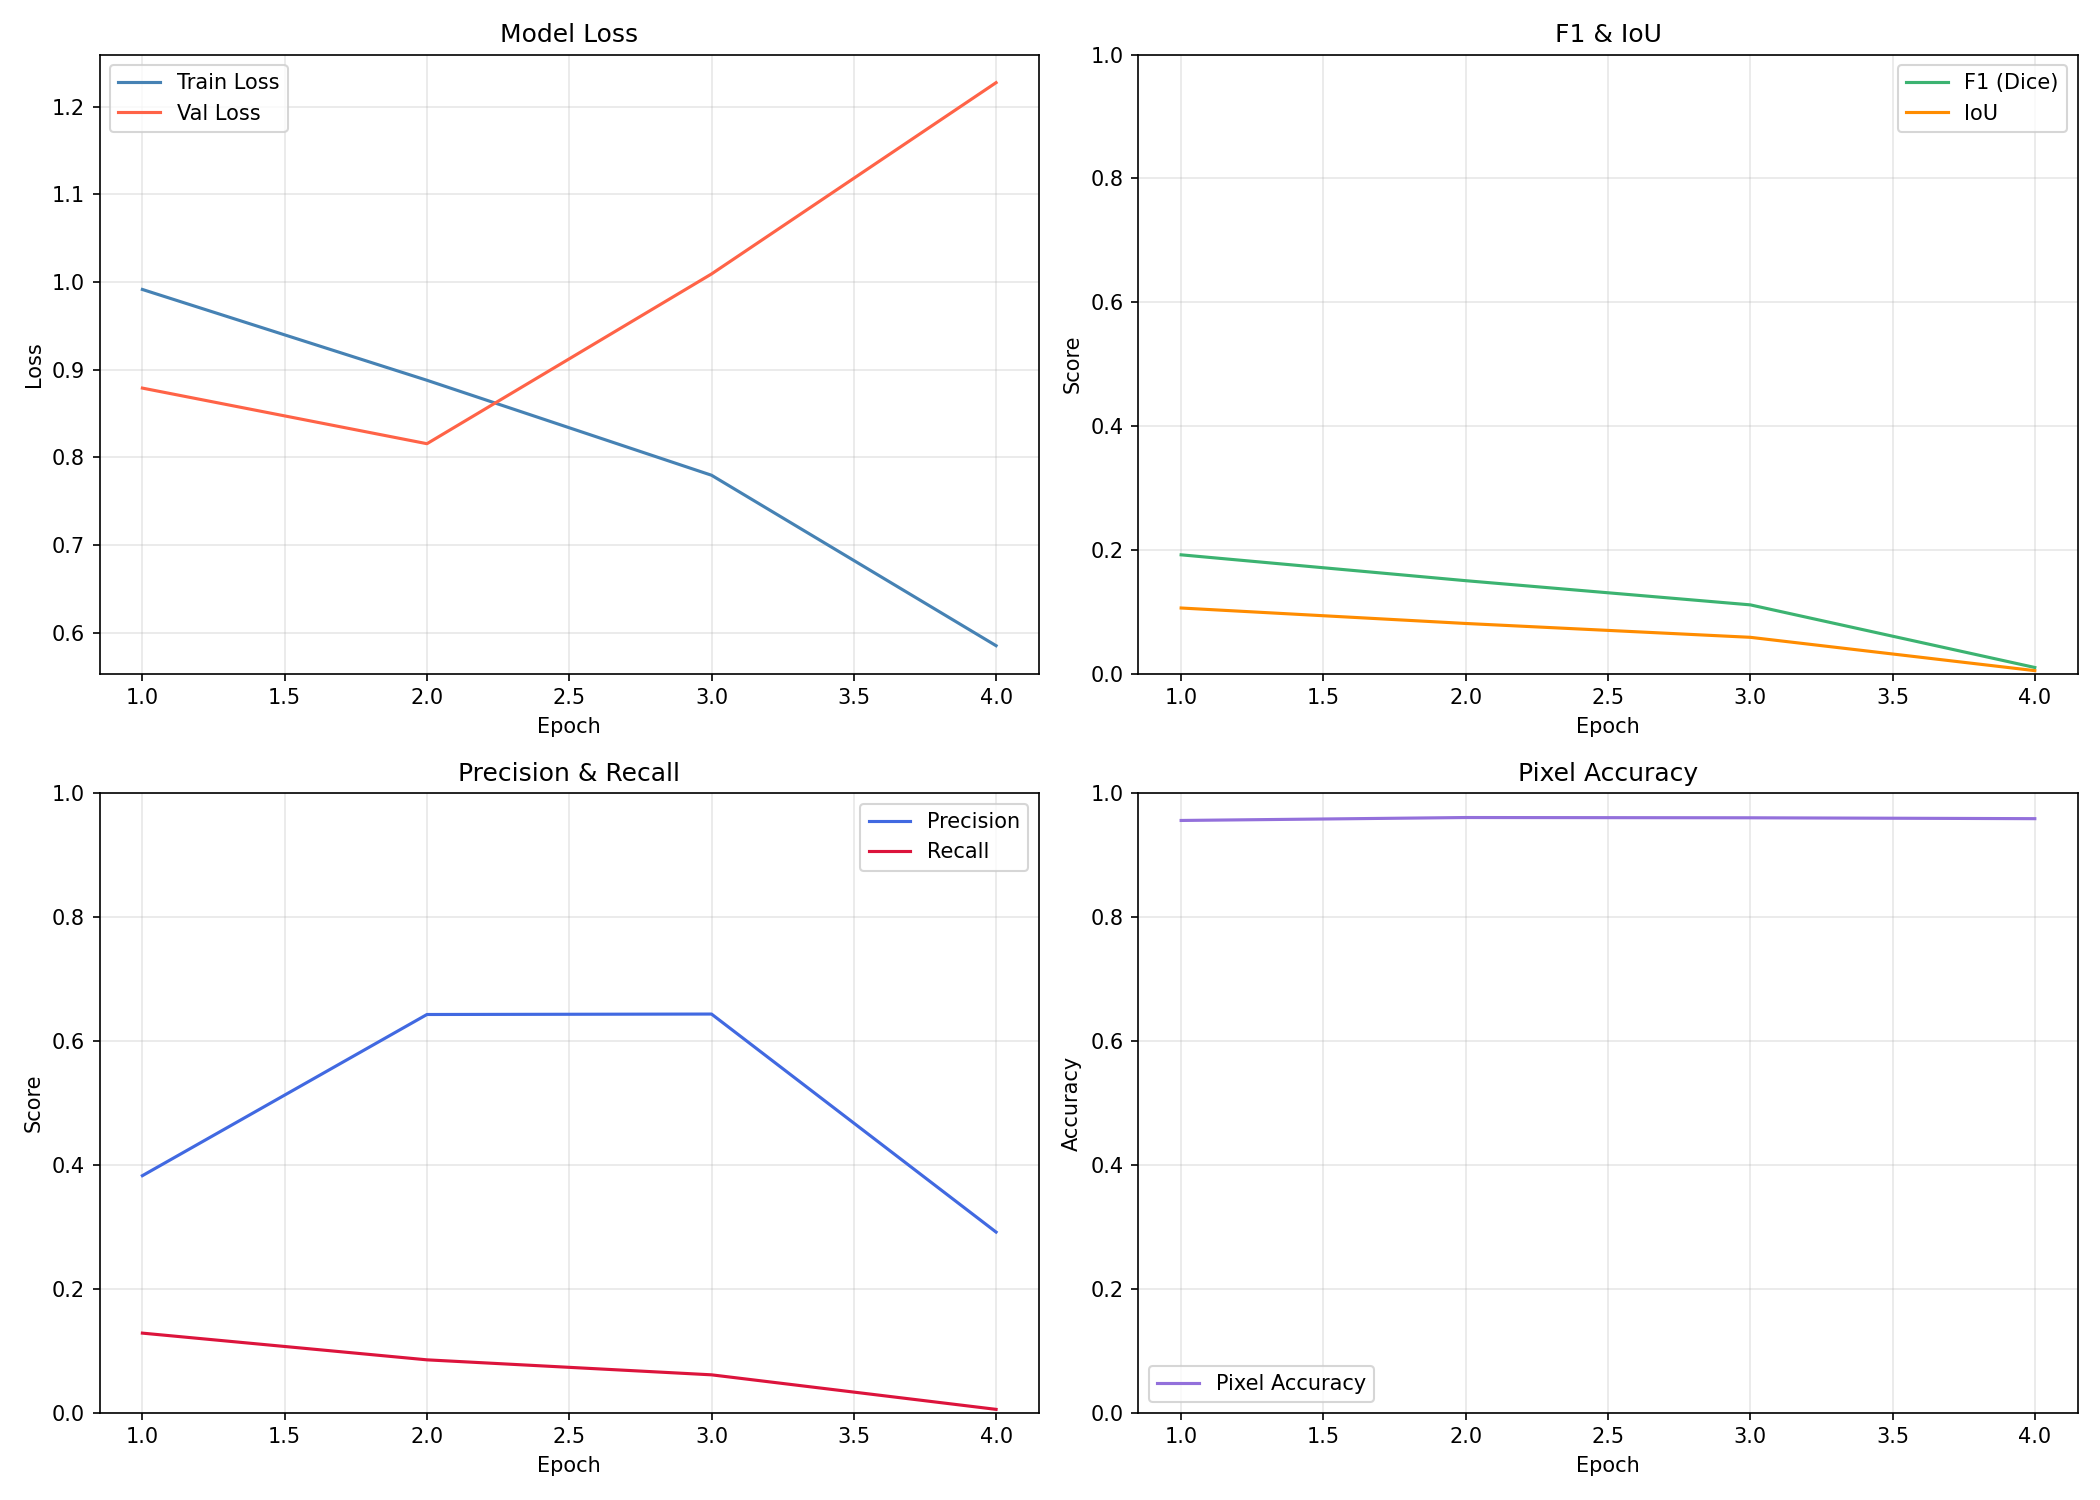
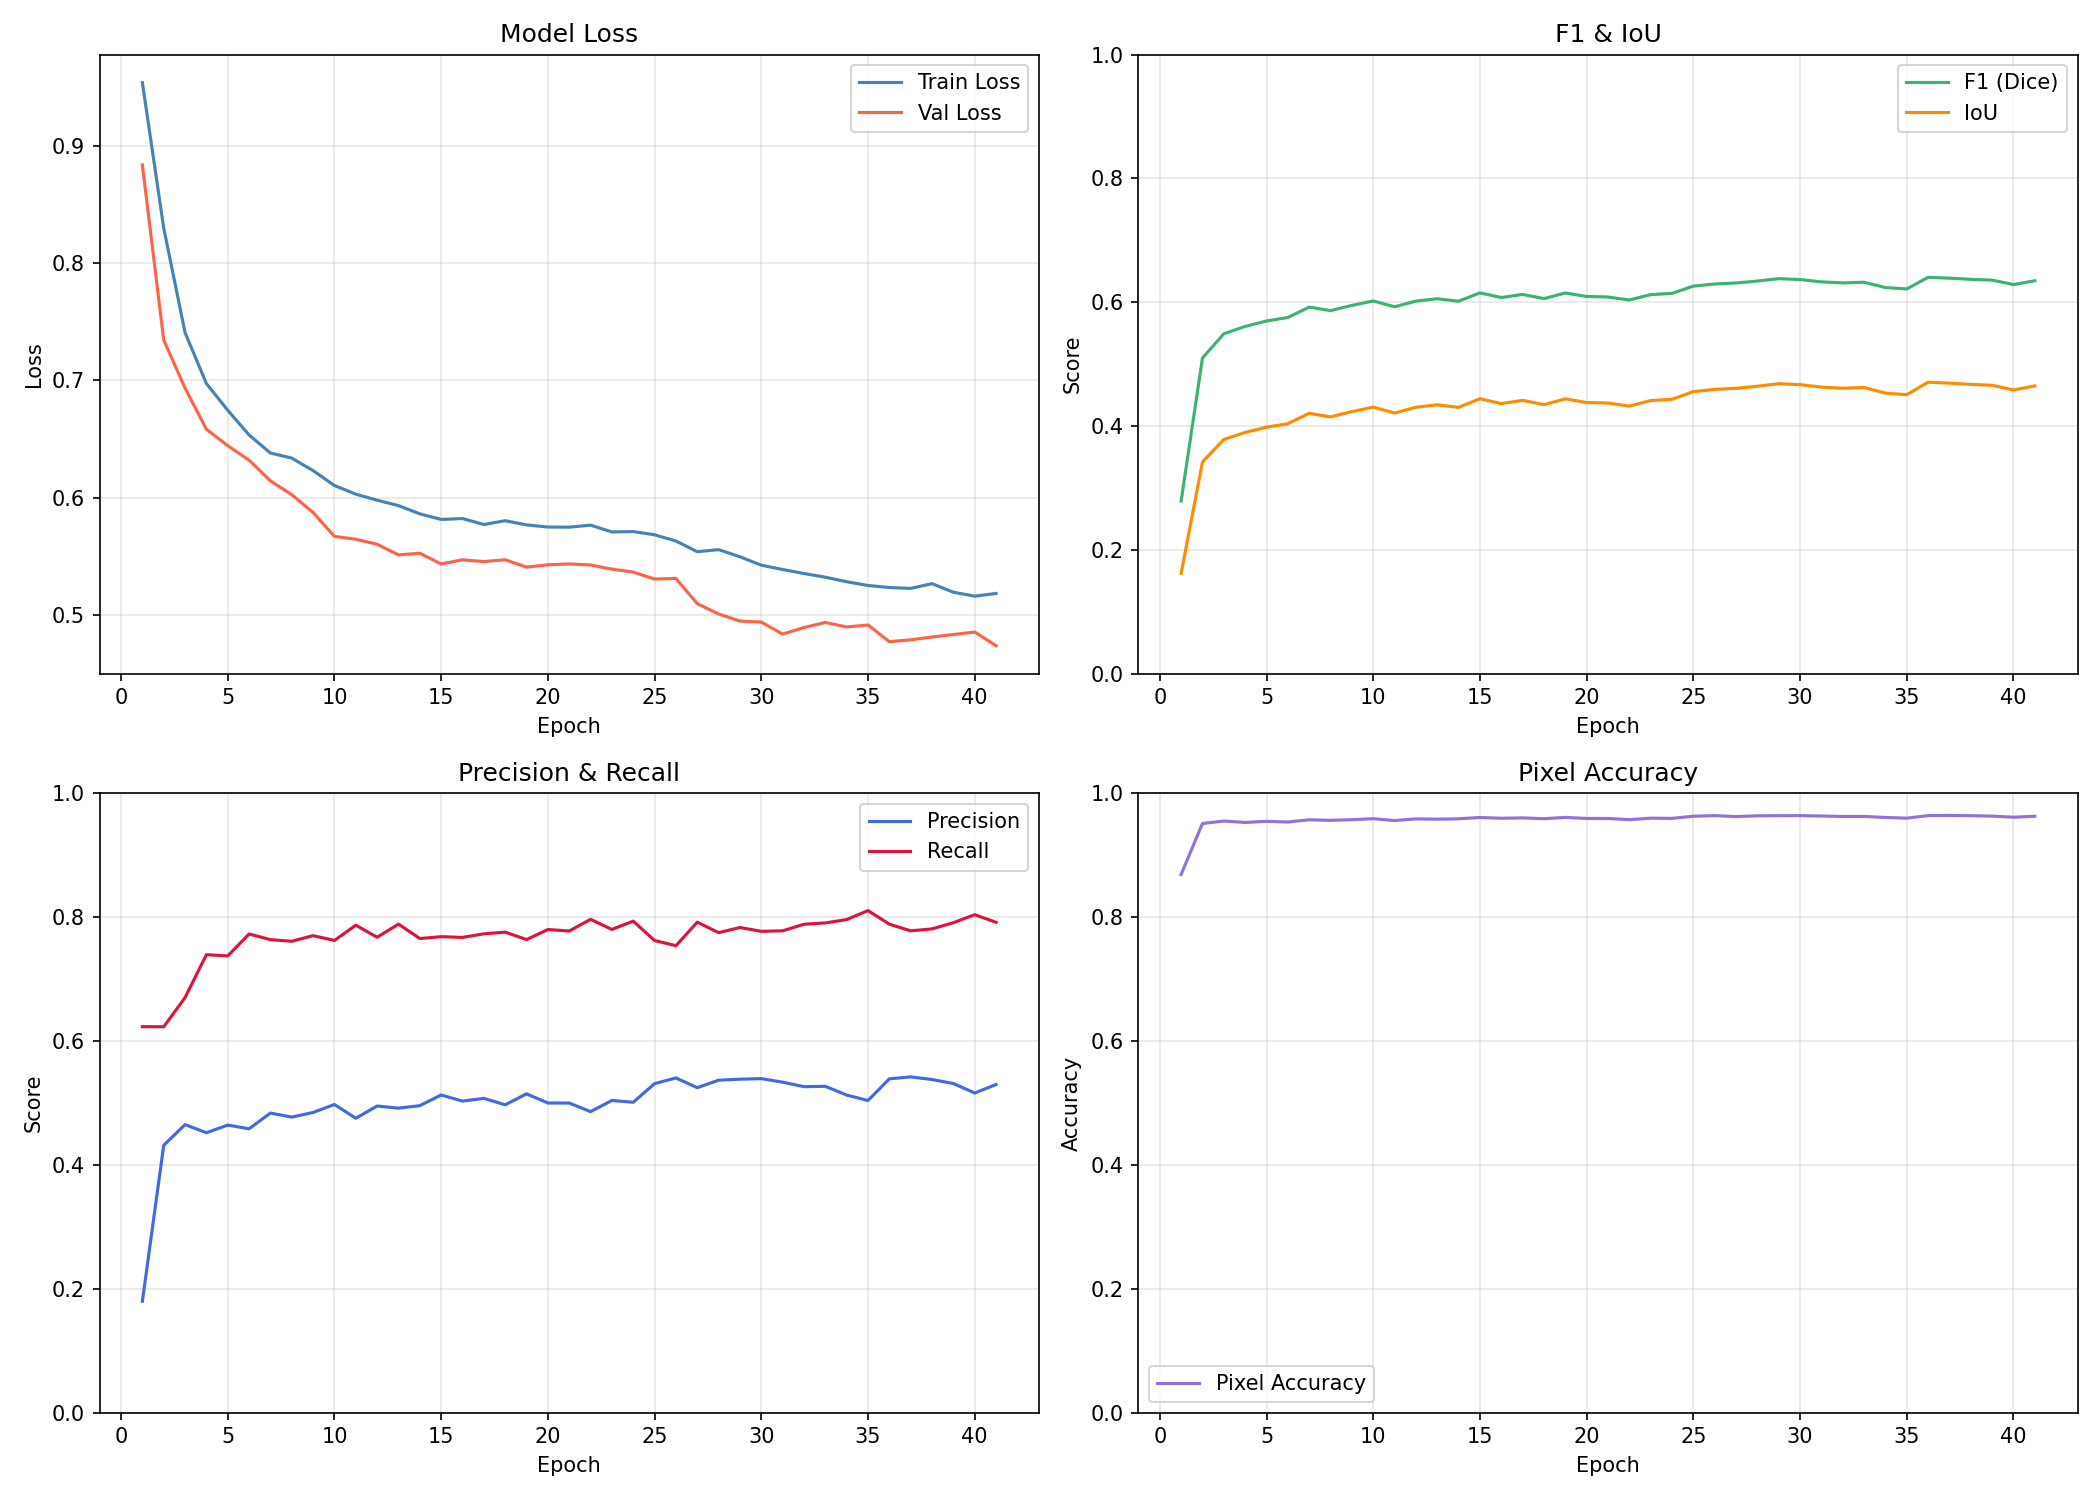
first successful run

diff --git a/UNet Teacher Model/unet_model.py b/UNet Teacher Model/unet_model.py
@@ -50,20 +50,19 @@ class UNet(nn.Module):
         self.enc1 = DoubleConv(in_channels, f, dropout=0.0)
         self.enc2 = DoubleConv(f, f * 2, dropout=dropout)
         self.enc3 = DoubleConv(f * 2, f * 4, dropout=dropout)
-        self.enc4 = DoubleConv(f * 4, f * 8, dropout=dropout)
+        
         self.pool = nn.MaxPool2d(2)
 
-        self.bottleneck = DoubleConv(f * 8, f * 16, dropout=dropout * 2)
+        self.bottleneck = DoubleConv(f * 4, f * 8, dropout=dropout * 2)
 
-        self.up4 = nn.ConvTranspose2d(f * 16, f * 8, kernel_size=2, stride=2)
-        self.attn4 = AttentionGate(gate_ch=f * 8, skip_ch=f * 8, inter_ch=f * 4)
-        self.dec4 = DoubleConv(f * 16, f * 8, dropout=dropout)
         self.up3 = nn.ConvTranspose2d(f * 8, f * 4, kernel_size=2, stride=2)
         self.attn3 = AttentionGate(gate_ch=f * 4, skip_ch=f * 4, inter_ch=f * 2)
         self.dec3 = DoubleConv(f * 8, f * 4, dropout=dropout)
+        
         self.up2 = nn.ConvTranspose2d(f * 4, f * 2, kernel_size=2, stride=2)
         self.attn2 = AttentionGate(gate_ch=f * 2, skip_ch=f * 2, inter_ch=f)
         self.dec2 = DoubleConv(f * 4, f * 2, dropout=dropout)
+        
         self.up1 = nn.ConvTranspose2d(f * 2, f, kernel_size=2, stride=2)
         self.attn1 = AttentionGate(gate_ch=f, skip_ch=f, inter_ch=f // 2)
         self.dec1 = DoubleConv(f * 2, f, dropout=0.0)
@@ -80,19 +79,21 @@ class UNet(nn.Module):
                     nn.init.zeros_(m.bias)
 
     def forward(self, x: torch.Tensor) -> torch.Tensor:
+        # Encoder path
         e1 = self.enc1(x)
         e2 = self.enc2(self.pool(e1))
         e3 = self.enc3(self.pool(e2))
-        e4 = self.enc4(self.pool(e3))
 
-        b = self.bottleneck(self.pool(e4))
+        # Bottleneck
+        b = self.bottleneck(self.pool(e3))
 
-        up4 = self.up4(b)
-        d4 = self.dec4(torch.cat([up4, self.attn4(up4, e4)], dim=1))
-        up3 = self.up3(d4)
+        # Decoder path
+        up3 = self.up3(b)
         d3 = self.dec3(torch.cat([up3, self.attn3(up3, e3)], dim=1))
+        
         up2 = self.up2(d3)
         d2 = self.dec2(torch.cat([up2, self.attn2(up2, e2)], dim=1))
+        
         up1 = self.up1(d2)
         d1 = self.dec1(torch.cat([up1, self.attn1(up1, e1)], dim=1))
 
@@ -103,7 +104,7 @@ def dice_focal_loss(
     pred_logits: torch.Tensor,
     target: torch.Tensor,
     smooth: float = 1.0,
-    alpha: float = 0.8,  # Weights the positive class (cracks) higher
+    alpha: float = 0.95,  # Weights the positive class (cracks) higher
     gamma: float = 2.0,  # Penalizes the model more for being confident but wrong
 ) -> torch.Tensor:
     prediction_probabilities: torch.Tensor = torch.sigmoid(pred_logits)

diff --git a/UNet Teacher Model/train_teacher_model.py b/UNet Teacher Model/train_teacher_model.py
@@ -105,9 +105,7 @@ def save_best_predictions(best_samples: list, save_dir: Path) -> None:
     if not best_samples:
         return
 
-    fig, axes = plt.subplots(
-        len(best_samples), 3, figsize=(10, 3 * len(best_samples))
-    )
+    fig, axes = plt.subplots(len(best_samples), 3, figsize=(10, 3 * len(best_samples)))
 
     # Handle case where there's only 1 sample
     if len(best_samples) == 1:
@@ -172,16 +170,14 @@ def train_teacher(
     )
     print(f"Training on: {device}")
 
-    train_dataset, val_dataset, _ = prepare_datasets(
-        dataset_dir, target_size=(96, 96)
-    )
+    train_dataset, val_dataset, _ = prepare_datasets(dataset_dir, target_size=(96, 96))
 
     train_loader: DataLoader = create_dataloader(train_dataset, batch_size, device)
     val_loader: DataLoader = create_dataloader(
         val_dataset, batch_size, device, shuffle=False
     )
 
-    model: UNet = UNet(in_channels=1, base_filters=64).to(device)
+    model: UNet = UNet(in_channels=1, base_filters=48).to(device)
     optimizer = torch.optim.AdamW(model.parameters(), lr=lr, weight_decay=1e-2)
     scheduler = torch.optim.lr_scheduler.CosineAnnealingWarmRestarts(
         optimizer, T_0=20, T_mult=2, eta_min=1e-6
@@ -242,7 +238,7 @@ def train_teacher(
                     predictions = model(images)
                     val_loss += dice_focal_loss(predictions, masks).item()
 
-                predictions_bin: torch.Tensor = (predictions > 1.0).float()
+                predictions_bin: torch.Tensor = (predictions > 0.5).float()
 
                 for j in range(images.size(0)):
                     img_single = images[j]
@@ -278,7 +274,9 @@ def train_teacher(
                         )
                     )
 
-                    best_samples = sorted(best_samples, key=lambda x: x[0], reverse=True)[:5]
+                    best_samples = sorted(
+                        best_samples, key=lambda x: x[0], reverse=True
+                    )[:5]
 
                 total_tp += (predictions_bin * masks).sum().item()
                 total_fp += (predictions_bin * (1 - masks)).sum().item()

diff --git a/UNet Teacher Model/prepare_datasets.py b/UNet Teacher Model/prepare_datasets.py
@@ -20,7 +20,7 @@ class CrackDataset(Dataset):
 
         if augment:
             transforms: list = [
-                A.RandomCrop(*target_size),
+                A.Resize(*target_size),
                 A.HorizontalFlip(p=0.5),
                 A.VerticalFlip(p=0.5),
                 A.RandomRotate90(p=0.5),
